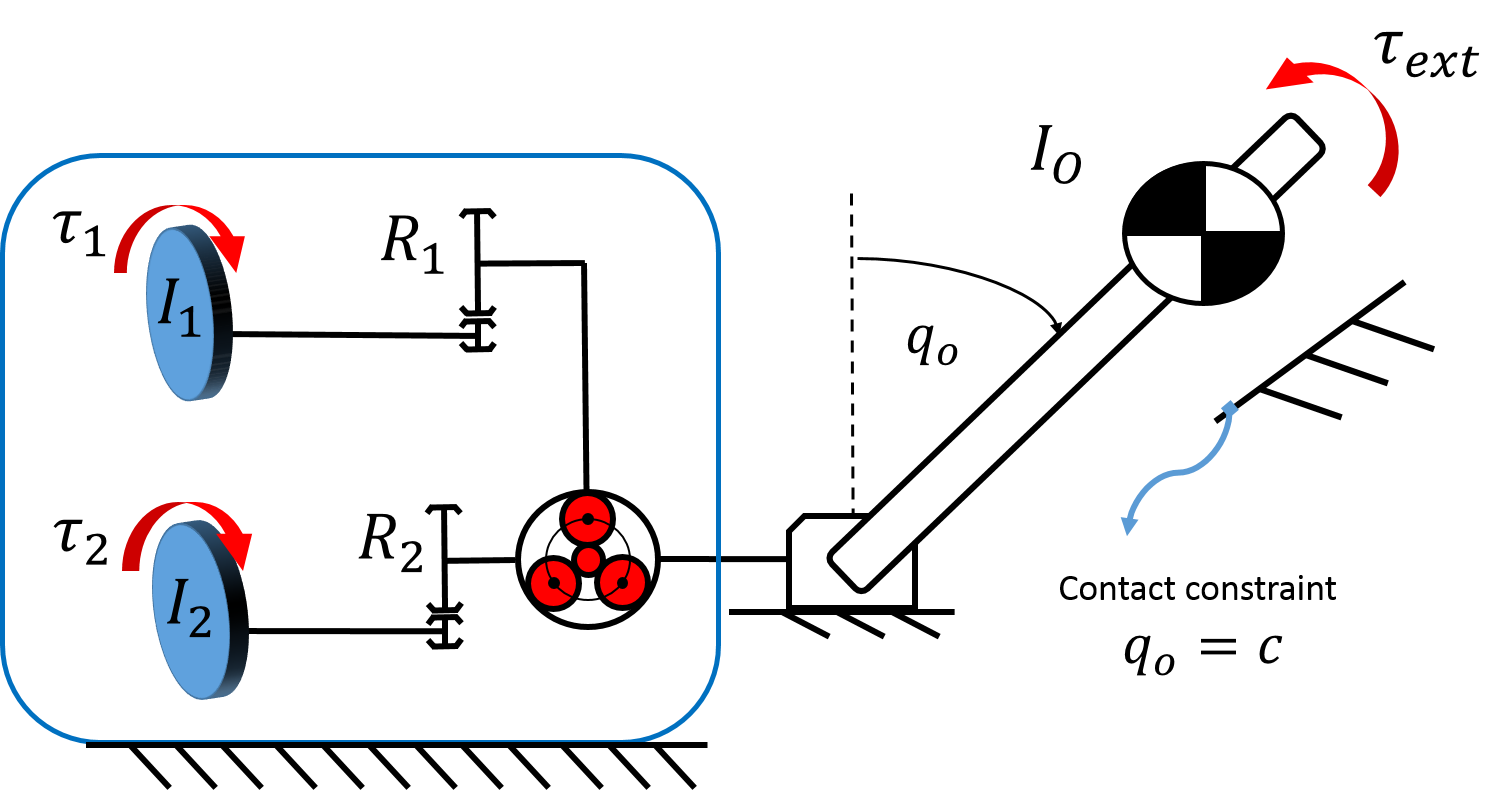
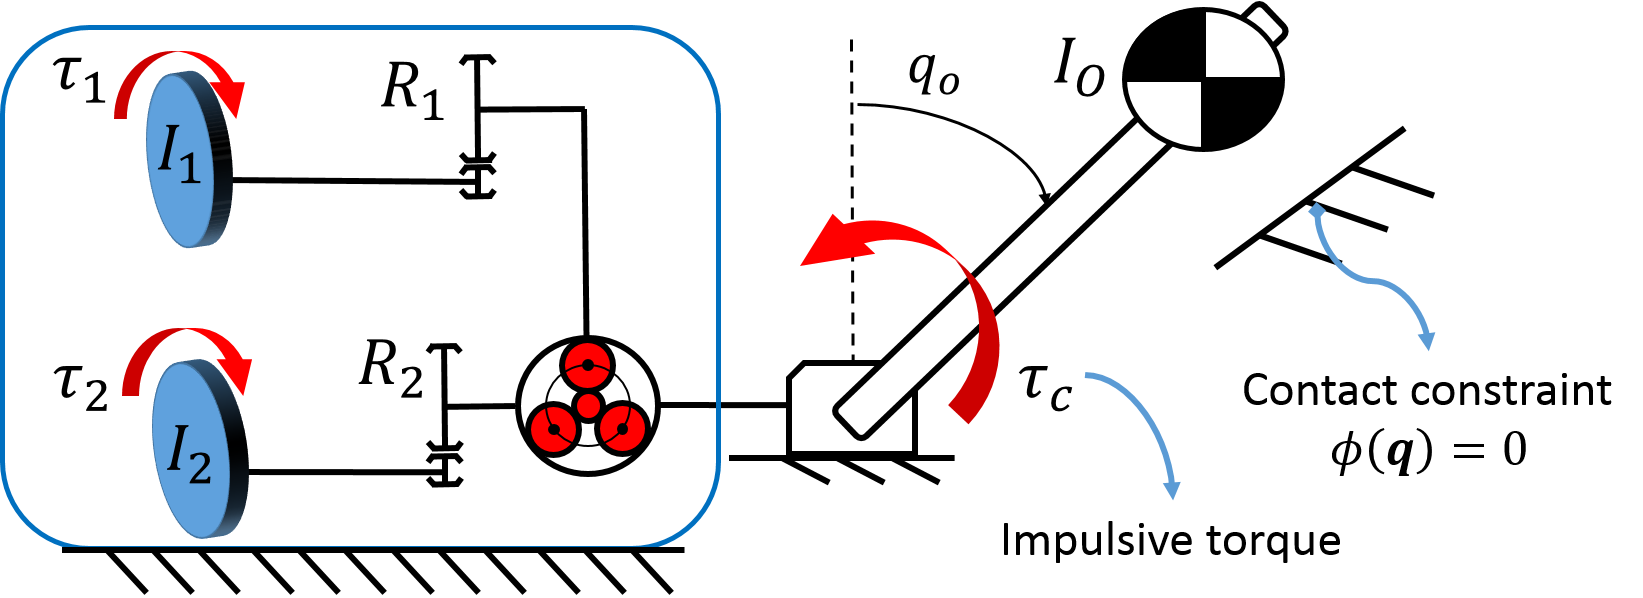
reformated impact management

diff --git a/src/actuation.tex b/src/actuation.tex
@@ -461,15 +461,136 @@ Fig. \ref{fig:operatingmodes} illustrates the different discrete operating modes
 \end{figure}
 
 
+\subsubsection{Impacts}
+
+During a contact, impulsive forces can create a sudden change of velocity. Hence, if a DSDM actuator is used on a robotic system making contact with objects, its internal velocities will suddenly change, as a function of the full dynamic of the robot and the contact situation:
+%
+\begin{align}
+\left[
+\begin{array}{c}
+w_0^+ \\
+w_1^+ \\
+\end{array}
+\right] = 
+\left[
+\begin{array}{c}
+w_0^- \\
+w_1^- \\
+\end{array}
+\right] +
+\vec{h}( \vec{q} , \vec{\dot{q}} , J_c )
+\end{align}
+%
+where $\vec{h}$ can be a complex mapping involving high-dimensional dynamic and constraints. However, since there is no impulsive force on the motor side, the effect of the contact can be reduce to a impulse torque applied to the output $\int{\tau_c dt}$ of the actuator, leading to:
+%
+\begin{align}
+\left[
+\begin{array}{c}
+w_0^+ \\
+w_1^+ \\
+\end{array}
+\right] = 
+\left[
+\begin{array}{c}
+w_0^- \\
+w_1^- \\
+\end{array}
+\right] +
+H^{-1} \left[
+\begin{array}{c}
+1 \\
+0 \\
+\end{array}
+\right] \int{\tau_c( \vec{q} , \vec{\dot{q}} , J_c ) dt}
+\end{align}
+%
+If the reflected inertia of M2 is much greater than M1 ($R_2^2 I_2 >> R_1^2 I_1 $), this reduced to
+%
+\begin{align}
+\left[
+\begin{array}{c}
+w_0^+ \\
+w_1^+ \\
+\end{array}
+\right] = 
+\left[
+\begin{array}{c}
+w_0^- \\
+w_1^- \\
+\end{array}
+\right] +
+\frac{ \int{\tau_c( \vec{q} , \vec{\dot{q}} , J_c ) dt} }{ I_o + I_1 R_1^2} 
+\left[
+\begin{array}{c}
+1 \\
+R_1 \\
+\end{array}
+\right] 
+\end{align}
+%
+Hence, M2 velocity will be unchanged and the velocity discontinuity of the output is transmitted directly to M1 during an impact:
+%
+\begin{align}
+\Delta w_o  &= w_o^+ - w_o^- = \frac{ \int{\tau_c( \vec{q} , \vec{\dot{q}} , J_c ) dt} }{ I_o + I_1 R_1^2}  \\
+\Delta w_1  &= w_1^+ - w_1^- = R_1 \Delta w_o \\
+\Delta w_2  &= w_2^+ - w_2^- =  0
+\label{eq:dsdm_impact_gen_delta_w1}
+\end{align}
+
+
+
+\begin{figure}[H]
+	\centering
+		\includegraphics[width=0.70\textwidth]{dsdm_impact_model.png}
+	\caption{DSDM actuator impact model}
+	\label{fig:dsdm_impact_model_1}
+\end{figure}
+
+
+
+\paragraph{Example}
+Fig.\ref{fig:dsdm_impact_model_1} illustrates a simple impact scenario with a single DSDM actuator. The equation of motion previous introduced (eq. \eqref{eq:dsdm_manip}) can describe this situation. However here, displacement variables corresponding to angles of rotation of the output and M1, ignorable coordinates for an unconstrained scenario, are introduced:
+%
+\begin{align}
+\vec{q} = \left[ \begin{array}{c} 	q_0 \\ q_1 \end{array} \right] \quad
+\vec{\dot{q}} = \left[ \begin{array}{c} 	w_0 \\ w_1 \end{array} \right]
+\label{eq:dsdm_impact_q}
+\end{align}
+%
+to expressed the contact constraint in the standard form (see section \ref{sec:contact}):
+%
+\begin{align}
+\phi( \vec{q} )       &= q_0 - c = 0 \\
+\dot{\phi}( \vec{q} ) &= J_c\vec{\dot{q}} =  w_0 = 0 \\
+J_c                   &= \frac{d \phi}{d\vec{q}} = \left[ \begin{array}{c c} 1 & 0 \end{array} \right]
+\label{eq:dsdm_impact_const}
+\end{align}
+%
+Then assuming the impact is completely inelastic and $R_2^2 I_2 >> R_1^2 I_1$, eq.\eqref{eq:manipulator_impact_force} can be used to solve for the impact force:
+%
+\begin{align}
+\int{  \tau_c dt } &= - \left( J_c H^{-1} J_c^T \right)^{-1}  J_c \vec{\dot{q}}^- = -(I_0 + I_1 R_1^2) w_o^-
+\label{eq:dsdm_impact_force}
+\end{align}
+%
+and the resulting velocities immediately after the impact are:
+\begin{align}
+\Delta w_o  = - w_o^- \quad  \Delta w_1  = - R_1 w_o^-  \quad  \Delta w_2  = 0
+\label{eq:dsdm_impact_res}
+\end{align}
+
+
+
 
 \subsection{Nullspace of the system}
+
+\subsubsection{Kinematic}
 
 During high-speed mode, from the kinematic input-output view point, the DSDM actuator has one redundant degree of freedom. In other words, there is an infinite number of combinations of $w_1$ and $w_2$ producing the same output speed $w_0$, from eq.\eqref{eq:kinematic}:  
 %
 \begin{align}
-\left[
 w_o
-\right] = 
+ = 
 \left[
 \begin{array}{c c}
 \frac{1}{R_1} & \frac{1}{R_2}
@@ -503,6 +624,9 @@ w_0 = 0 \quad \forall u \in \Re
 \label{eq:kinematicnullspace}
 \end{align}
 %
+
+\subsubsection{Dynamic}
+
 Interestingly, a similar expression can be obtained for the dynamics of the output in response to electromagnetic torque inputs, from the first line of eq.\eqref{eq:ss}:
 %
 \begin{align}
@@ -536,7 +660,7 @@ b_T  w_o = 0 \quad \forall u \in \Re
 \label{eq:dyn_null_proj}
 \end{align}
 
-
+\subsubsection{Impact Impulse}
 
 \subsection{Control algorithms}
 
@@ -595,7 +719,10 @@ In this case, the transition is simple because the system goes from 1 DoF to 2 D
 %
 
 \paragraph{Down-shift: From high-speed mode to high-force mode}
-In this case, the transition is harder because the system goes from 2 DoF to 1 DoF, and some synchronization work is needed. M1 speed $w_1$ must be brought to zero so that the locking brake can be engaged smoothly without any impact. Hence, as illustrated at Fig. \ref{fig:automaticflow}, when it is decided to engage high-force mode, and intermediary synchronization control mode is needed. Two algorithms, a kinematic and a dynamic approach, can be considered. The former assumes local high gain velocity feedback controls for the individual motors. Hence velocities $w_1$ and $w_2$ can be treated as control inputs. Using the nullspace projection vector from eq.\eqref{eq:kinematicnullspace}, the kinematic control law can be written as 
+In this case, the transition is harder because the system goes from 2 DoF to 1 DoF, and some synchronization work is needed. M1 speed $w_1$ must be brought to zero so that the locking brake can be engaged smoothly without any impact. Hence, as illustrated at Fig. \ref{fig:automaticflow}, when it is decided to engage high-force mode, and intermediary synchronization control mode is needed. Two algorithms, a kinematic and a dynamic approach, can be considered. 
+
+\paragraph{Kinematic algo}
+The kinematic control aglorithm assumes local high gain velocity feedback controls for the individual motors. Hence velocities $w_1$ and $w_2$ can be treated as control inputs. Using the nullspace projection vector from eq.\eqref{eq:kinematicnullspace}, the kinematic control law can be written as 
 %
 \begin{align}
 \left[
@@ -616,17 +743,20 @@ u_1 +
 0 \\
 R_2 \\
 \end{array}
-\right] u_2
+\right] u_0
 \label{eq:kinematicsys}
 \end{align}
 %
 leading to
 %
 \begin{align}
-w_o = u_2 \quad \text{with} \quad w_1 = u_1
+w_o = u_0 \quad \text{with} \quad w_1 = u_1
 \end{align}
 %
-Therefore during transitions, using $u_1$ velocity $w_1$ can be driven to zero, while fully controlling the output velocity using $u_2$. The kinematic control law is valid only when high fidelity velocity controls are available. Alternatively the dynamic control algorithm does not require this. As illustrated in Fig. \ref{fig:down_loop}, while running the general high-speed controller, a braking law for $w_1$ can be used in parallel as the secondary controller projected on the output nullspace:
+Therefore during transitions, using $u_1$ velocity $w_1$ can be driven to zero, while fully controlling the output velocity using $u_0$. The kinematic control law is valid only when high fidelity velocity controls are available. Alternatively the dynamic control algorithm does not require this. 
+
+\paragraph{Dynamic algo}
+As illustrated in Fig. \ref{fig:down_loop}, while running the general high-speed controller, a braking law for $w_1$ can be used in parallel as the secondary controller projected on the output nullspace:
 \begin{align}
 \left[ \begin{array}{c}
 \tau_1 \\
@@ -653,101 +783,36 @@ Hence, the output is not influenced by the braking law due to orthogonality, and
 
 
 
-\subsection{Transitions Leveraging Impact Forces}
+\subsubsection{Predictive algorithm for fast gear-shift during impacts}
 
 This section described a control scheme where the velocity of the internal DoF is adjusted beforehand when an impact is expected, so that impact forces bring M1 velocity close to zero, allowing for fast down-shift transitions. This is aimed at situation like a leg approaching the ground with high-speed mode, then making contact with the ground and transitioning to high-force mode to bear the weight of the robot.
 
-\subsubsection{Simple Example}
 
-Here, a simple situation of a grounded DSDM actuator making contact with a fixed grounded object is explored, see Fig. \ref{fig:dsdm_impact_model}.
-
-\begin{figure}[htbp]
-	\centering
-		\includegraphics[width=0.70\textwidth]{dsdm_impact_model.png}
-	\caption{DSDM actuator contacting a fixed object}
-	\label{fig:dsdm_impact_model}
-\end{figure}
-
-The equation of motion previous introduced (eq. \eqref{eq:dsdm_manip}) can describe this situation. However here, displacement variables corresponding to angles of rotation of the output and M1, ignorable coordinates for an unconstrained scenario, are introduced:
+\paragraph{Kinematic algo}
+Rearranging the results to express the two variable of interest (approaching speed $w_0^-$ and M1 velocity after the impact $w_1^+$) lead to:
 %
 \begin{align}
-\vec{q} = \left[ \begin{array}{c} 	q_0 \\ q_1 \end{array} \right] \quad
-\vec{\dot{q}} = \left[ \begin{array}{c} 	w_0 \\ w_1 \end{array} \right]
-\label{eq:dsdm_impact_q}
-\end{align}
-%
-to expressed the contact constraint in the standard form (see section \ref{sec:contact}):
-%
-\begin{align}
-\phi( \vec{q} )       &= q_0 - c = 0 \\
-\dot{\phi}( \vec{q} ) &= J_c\vec{\dot{q}} =  w_0 = 0 \\
-J_c                   &= \frac{d \phi}{d\vec{q}} = \left[ \begin{array}{c c} 1 & 0 \end{array} \right]
-\label{eq:dsdm_impact_const}
-\end{align}
-%
-Then assuming the impact is completely inelastic, the velocity at time $t^+$ right after the impact is satisfying the constraint (no bouncing back the surface), and thus parametrized by a single DoF with unkown velocity $\lambda$:
-%
-\begin{align}
-\vec{\dot{q}}^+ &= \underbrace{ \left[ \begin{array}{c} 0 \\ 1 \end{array} \right] }_{ V } \lambda^+
-\label{eq:dsdm_impact_jaco}
-\end{align}
-%
-Then solving for impact force and resulting velocity simultaneously, see section \ref{sec:impact}:
-%
-\begin{align}
-\left[ \begin{array}{c} \lambda^+ \\ \int{f_c dt} \end{array} \right] &= \Bigg[ \begin{array}{c c} HV & -J_c^T \end{array} \Bigg]^{-1} \Bigg[ H \Bigg] \left[ \begin{array}{c} w_0^- \\ w_1^- \end{array} \right] \\
-\left[ \begin{array}{c} \lambda^+ \\ \int{f_c dt} \end{array} \right] &= \Bigg[ \begin{array}{c c} 
-\frac{-R_2^2/R_1 I_2}{I_1+(\frac{R_1}{R_2})^2 I_2} & 1 \\
-- (I_o + R_2^2 I_2+\frac{-R_2^2/R_1 I_2}{I_1+(\frac{R_1}{R_2})^2 I_2}) & 0 
-\end{array} \Bigg] \left[ \begin{array}{c} w_0^- \\ w_1^- \end{array} \right]
-\label{eq:dsdm_impact_sol}
-\end{align}
-%
-
-Simplifying for the case of $R_2^2 I_2 >> R_1^2 I_1 $ we have the following results:
-%
-\begin{align}
-w_0^+            &= 0 \\
-w_1^+            &\approx - R_1 w_0^- + w_1^-  = - \frac{R_1}{R_2} w_2^- \\
-w_2^+            &\approx  w_2^- \\
-\int{f_c dt}     &\approx -[I_o + R_1^2 I_1] w_0^-
-\label{eq:dsdm_impact_res}
-\end{align}
-%
-
-Those results basically show that when the reflected inertia of M2 is much greater than that of M1, the impact affect only $w_1$ and $w_2$ remains unchanged through the impact. Rearranging the results to express the two variable of interest ( approaching speed $w_0^-$ and after impact M1 velocity $w_1^+$) lead to:
-%
-\begin{align}
-\left[ \begin{array}{c} w_0^- \\ w_1^+ \end{array} \right] &= \Bigg[ \begin{array}{c c} \frac{1}{R_1} & \frac{1}{R_2}\\ 0 & -\frac{R_1}{R_2} \end{array} \Bigg] \left[ \begin{array}{c} w_1^- \\ w_2^- \end{array} \right] 
+\left[ \begin{array}{c} w_0^- \\ w_1^+ \end{array} \right] &= \Bigg[ \begin{array}{c c} \frac{1}{R_1} & \frac{1}{R_2}\\ 1 & 0 \end{array} \Bigg] \left[ \begin{array}{c} w_1^- \\ w_2^- \end{array} \right] + \left[ \begin{array}{c} 0 \\ R_1 \frac{\int{\tau_c dt}}{I_o + I_1 R_1^2} \end{array} \right]
 \label{eq:dsdm_impact_approx_sol}
 \end{align}
 %
-Hence it is possible to set both motor velocities so that the approaching speed and after impact M1 velocity can be set arbitrarily and independently using the nullspace, by determining velocity setpoints as:
+Hence it is possible to set both motor velocities so that the approaching speed and after impact M1 velocity can be set arbitrarily and independently using the nullspace, by determining velocity set-points as:
 %
 \begin{align}
 \left[ \begin{array}{c} w_1^- \\ w_2^- \end{array} \right] &= \Bigg[ \begin{array}{c} R_1 \\ 0  \end{array} \Bigg] u_0  + 
 \underbrace{ \left[ \begin{array}{c} 1 \\ -\frac{R_2}{R_1} \end{array} \right]}_{\text{Nullspace projection}}
- u_1 \\
-&\text{leading to} \quad w_o^- = u_0 \quad w_1^+ = u_1
-\label{eq:dsdm_impact_kin_ctl}
+ \left( u_1 - R_1 \frac{\int{\tau_c dt}}{I_o + I_1 R_1^2} \right) 
 \end{align}
 %
-For this simple scenario where a fixed DSDM hit a fixed object, the result is trivial: by keeping $w_2^-=0$ M1 will be still right after the impact and the brake can be engaged immediately. But the principle can be extended to complex scenario where a model is available to predict the change of velocity expected during the impact.
-
-
-\subsubsection{Generalization}
-
-In the general case for a DSDM used in a robotic system, assuming the reflected inertia of M2 is much greater than M1 ($R_2^2 I_2 >> R_1^2 I_1 $), during an impact M2 velocity will be unchanged and the drop in velocity for M1 is function of the full robot dynamics and contact constraints:
+leading to
 %
 \begin{align}
-\Delta w_1  &= w_1^+ - w_1^- = f_{imp}( \vec{q} , \vec{\dot{q}} , J_c ) \\
-\Delta w_2  &= w_2^+ - w_2^- \approx 0
-\label{eq:dsdm_impact_gen_delta_w1}
+ w_o^- = u_0 \quad \text{and} \quad w_1^+ = u_1
 \end{align}
 %
+Therefore, if expected an impact and can predict the impulsive reaction $\int{\tau_c dt}$, using this control law lead to independent control of the approaching speed of the actuator output $w_o^-$, which would be used for the primary objective (for instance making contact with the object at the right place and time), and resulting velocity of M1 after the impact $w_1^+$, which would be set to zero to allow for instantaneous down-shift.
 
-\subsubsection{Predictive Control Algorithm}
-
+\paragraph{Dynamic algo}
 The proposed control algorithm is as follow. When an impact is expected during high-speed mode, estimate the expected the drop in velocity for the actuator using a collision model considering the full robot dynamic, then assign the negative of the estimated speed drop as a velocity set-point for M1:
 %
 \begin{align}
